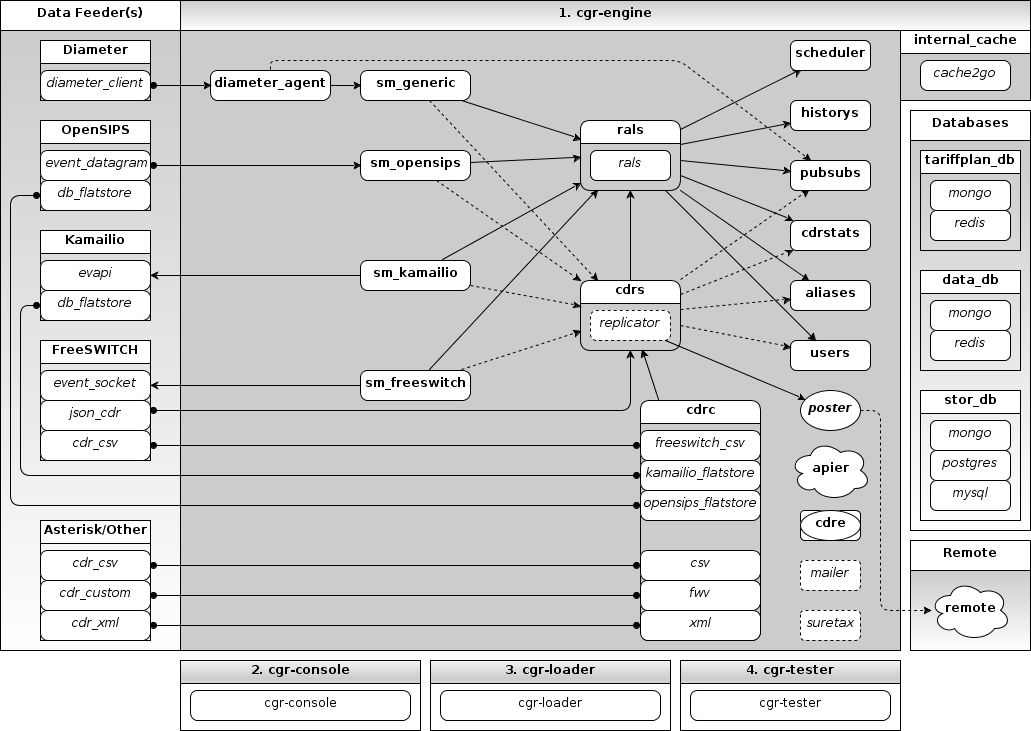
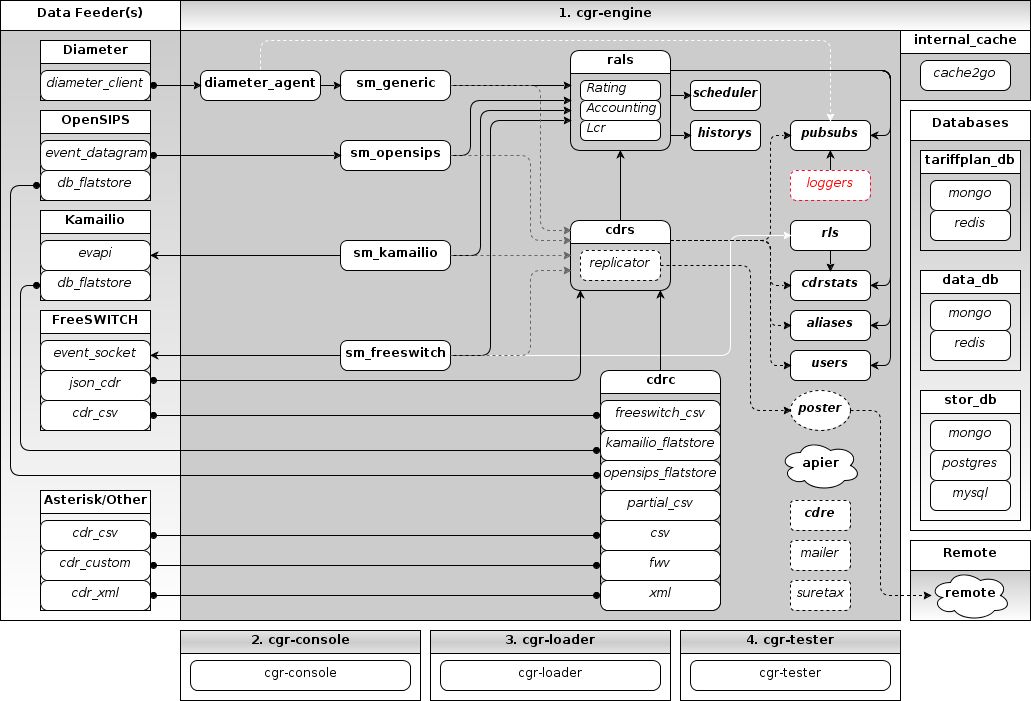
docs - more about ResourceLimiter

Changed region(s): [[0.0, 0.0, 1.0, 0.9886], [0.4966, 0.2696, 0.5276, 0.2996], [0.4656, 0.2996, 0.4966, 0.3295]]

diff --git a/docs/tariff_plans.rst b/docs/tariff_plans.rst
@@ -607,8 +607,7 @@ for example rated for different tenants or resellers.
 
 4.2.12. CDR Stats
 ~~~~~~~~~~~~~~~~~~
-
-CDR Stats enabled some realtime statistics in your platform for multiple
+CDR Stats enables some realtime statistics in your platform for multiple
 purposes, you can read more, see :ref:`cdrstats-main`
 
 ::
@@ -620,81 +619,81 @@ purposes, you can read more, see :ref:`cdrstats-main`
     :file: ../data/tariffplans/tutorial/CdrStats.csv
     :header-rows: 1
 
-Id:
+[0] - Id:
     Tag name for the Queue id
 
-QueueLength:
+[1] - QueueLength:
     Maximum number of calls in this queue
 
-TimeWindow:
+[2] - TimeWindow:
     Window frame to store the calls
 
-SaveInterval:
+[3] - SaveInterval:
     Each interval queue stats will save in the stordb
 
-Metric:
+[4] - Metric:
     Type of metric see :ref:`cdrstats-metrics`
 
-SetupInterval:
+[5] - SetupInterval:
     TBD
 
-TOR:
+[6] - TOR:
     TBD
 
-CdrHost
+[7] - CdrHost
     TBD
 
-CdrSource:
+[8] - CdrSource:
     TBD
 
-ReqType:
+[9] - ReqType:
     Filter by reqtype
 
-Direction:
+[10] - Direction:
     TBD
 
-Tenant:
+[11] - Tenant:
     Used to distinguish between carriers if more than one share the same
     database in the CGRates system.
 
-Category:
+[12] - Category:
     Type of record specifies the kind of transmission this rate profile applies
     to.
 
-Account:
+[13] - Account:
     The identifier for the user's account.
 
-Subject:
+[14] - Subject:
     The client/user for who this profile is detailing the rates.
 
-DestinationIds:
-    Filter only by destinations prefix. Can be multiple separated with ;
+[15] - DestinationIds:
+    Filter only by destinations prefix. Can be multiple separated with **;**
 
-PddInterval:
+[16] - PddInterval:
     TBD
 
-UsageInterval:
+[17] - UsageInterval:
     TBD
 
-Supplier:
+[18] - Supplier:
     TBD
 
-DisconnectCause:
+[19] - DisconnectCause:
     TBD
 
-RunIds:
+[20] - RunIds:
     TBD
 
-RatedAccount:
+[21] - RatedAccount:
     Filter by rated account
 
-RatedSubject:
+[22] - RatedSubject:
     Filter by rated subject
 
-CostInterval:
+[23] - CostInterval:
     Filter by cost
 
-ActionTriggers:
+[24] - ActionTriggers:
     ActionTriggers associated with this queue
 
 4.2.13. Shared groups
@@ -710,6 +709,18 @@ TBD
     :file: ../data/tariffplans/tutorial/SharedGroups.csv
     :header-rows: 1
 
+[0] - Id:
+    TBD
+
+[1] - Account:
+    TBD
+
+[2] - Strategy:
+    TBD
+
+[3] - RatingSubject:
+    TBD
+
 4.2.14. LCR rules
 ~~~~~~~~~~~~~~~~~
 TBD
@@ -722,6 +733,39 @@ TBD
 .. csv-table::
     :file: ../data/tariffplans/tutorial/LcrRules.csv
     :header-rows: 1
+
+[0] - Direction:
+    TBD
+
+[1] - Tenant:
+    TBD
+
+[2] - Category:
+    TBD
+
+[3] - Account:
+    TBD
+
+[4] - Subject:
+    TBD
+
+[5] - DestinationTag:
+    TBD
+
+[6] - RpCategory:
+    TBD
+
+[7] - Strategy:
+    TBD
+
+[8] - StrategyParams:
+    TBD
+
+[9] - ActivationTime:
+    TBD
+
+[10] - Weight:
+    TBD
 
 4.2.15. Users
 ~~~~~~~~~~~~~
@@ -736,6 +780,24 @@ TBD
     :file: ../data/tariffplans/tutorial/Users.csv
     :header-rows: 1
 
+[0] - Tenant:
+   TBD
+
+[1] - UserName:
+   TBD
+
+[2] - Masked:
+   TBD
+
+[3] - AttributeName:
+   TBD
+
+[4] - AttributeValue:
+   TBD
+
+[5] - Weight:
+   TBD
+
 4.2.16. Aliases
 ~~~~~~~~~~~~~~~
 TBD
@@ -749,6 +811,39 @@ TBD
     :file: ../data/tariffplans/tutorial/Aliases.csv
     :header-rows: 1
 
+[0] - Direction:
+   TBD
+
+[1] - Tenant:
+   TBD
+
+[2] - Category:
+   TBD
+
+[3] - Account:
+   TBD
+
+[4] - Subject:
+   TBD
+
+[5] - DestinationId:
+   TBD
+
+[6] - Context:
+   TBD
+
+[7] - Target:
+   TBD
+
+[8] - Original:
+   TBD
+
+[9] - Alias:
+   TBD
+
+[10] - Weight:
+   TBD
+
 4.2.17. Resource Limits
 ~~~~~~~~~~~~~~~~~~~~~~~
 TBD
@@ -761,4 +856,28 @@ TBD
 .. csv-table::
     :file: ../data/tariffplans/tutorial/ResourceLimits.csv
     :header-rows: 1
+
+[0] - Tag
+   TBD
+
+[1] - FilterType
+   TBD
+
+[2] - FilterFieldName
+   TBD
+
+[3] - FilterValues
+   TBD
+
+[4] - ActivationTime
+   TBD
+
+[5] - Weight
+   TBD
+
+[6] - Limit
+   TBD
+
+[7] - ActionTriggerIds
+   TBD
 

diff --git a/docs/architecture.rst b/docs/architecture.rst
@@ -291,7 +291,22 @@ PubSub service used to expose internal events to interested external components 
    - ``"pubsubs": {...}``
 
 
-2.1.13. APIER RPC service
+2.1.13. Resource Limiter service
+~~~~~~~~~~~~~~~~~~~~~~~~~~~~~~~~
+Resource Limiter service used to limit resources during authorization (eg: maximum calls per destination for an account)
+
+- Communicates via:
+   - RPC
+   - internal/in-process *within the same running* **cgr-engine** process.
+
+- Operates with the following CGRateS database(s): ::
+
+   "data_db" - (accountDb)
+
+- Config section in the CGRateS configuration file:
+   - ``"rls": {...}``
+
+2.1.14. APIER RPC service
 ~~~~~~~~~~~~~~~~~~~~~~~~~
 RPC service used to expose external access towards internal components.
 
@@ -300,7 +315,7 @@ RPC service used to expose external access towards internal components.
    - JSON over HTTP
    - JSON over WebSocket
 
-2.1.14. Cdre
+2.1.15. Cdre
 ~~~~~~~~~~~~
 Component to retrieve rated CDRs from internal CDRs database.
 
@@ -313,7 +328,7 @@ Component to retrieve rated CDRs from internal CDRs database.
 - Config section in the CGRateS configuration file:
    - ``"cdre": {...}``
 
-2.1.15. Mailer
+2.1.16. Mailer
 ~~~~~~~~~~~~~~
 TBD
 
@@ -324,7 +339,7 @@ TBD
 - Config section in the CGRateS configuration file:
    - ``"mailer": {...}``
 
-2.1.16. Suretax
+2.1.17. Suretax
 ~~~~~~~~~~~~~~~
 TBD
 
